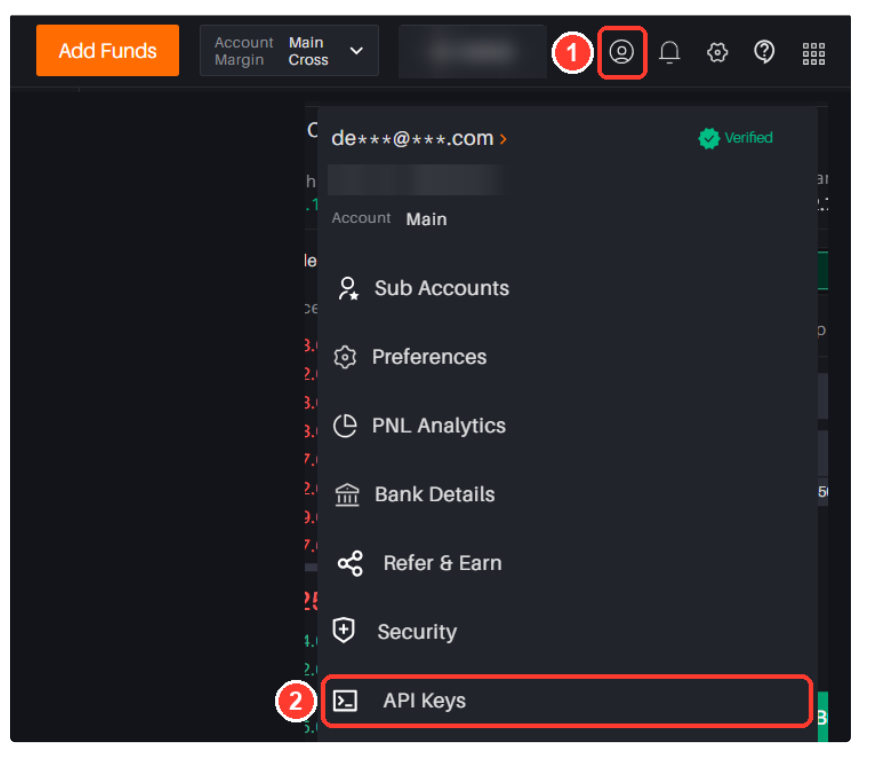
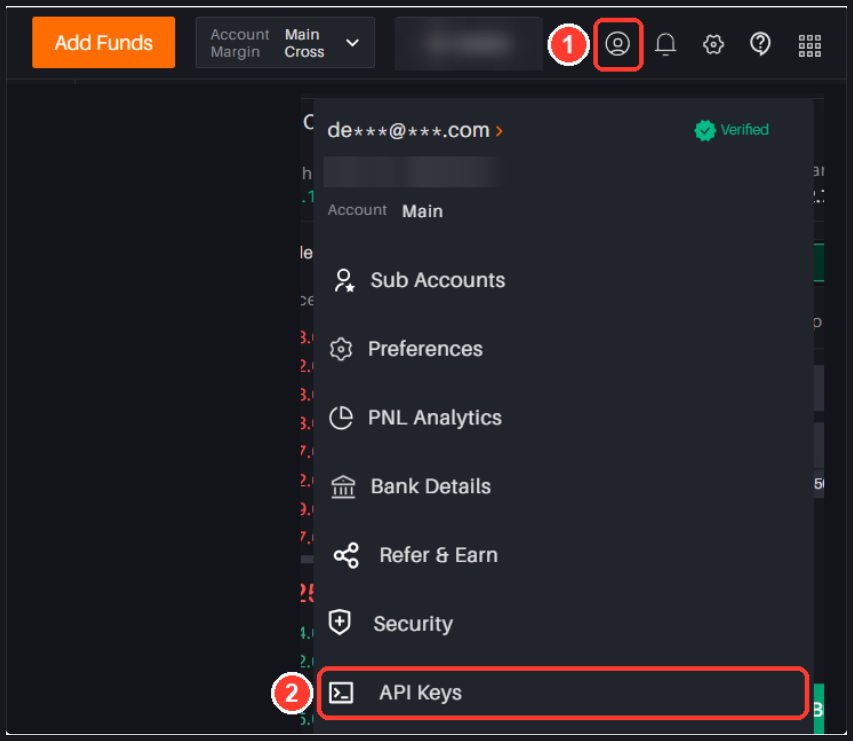
Fixed the image hw issue

diff --git a/src/manualExport.js b/src/manualExport.js
@@ -66,7 +66,10 @@ function guideXml(g, images) {
   return parts.join('');
 }
 
-const MAX_IMG_EMU = 5760720; // 6.3 in — the A4 text width at these margins
+// Screenshot box — the SAME on screen (index.css .mn-shot img), in the DOCX and in the PDF:
+// at most 420 × 260 CSS px, aspect kept, never cropped.
+export const SHOT_MAX_W = 420;
+export const SHOT_MAX_H = 260;
 const EMU_PER_PX = 9525;     // at 96 dpi
 
 /**
@@ -98,7 +101,7 @@ export function buildGuidesDocx(guides, loaded = new Map()) {
   let n = 0;
   for (const [src, im] of loaded) {
     n++;
-    const scale = Math.min(1, MAX_IMG_EMU / (im.w * EMU_PER_PX));
+    const scale = Math.min(1, SHOT_MAX_W / im.w, SHOT_MAX_H / im.h);
     images.set(src, {
       ...im, id: n, rid: `rIdImg${n}`, name: `image${n}.${im.ext === 'png' ? 'png' : 'jpg'}`,
       cx: Math.round(im.w * EMU_PER_PX * scale), cy: Math.round(im.h * EMU_PER_PX * scale),
@@ -162,7 +165,7 @@ export function printGuidesPdf(guides, title) {
   .note { color: #555; font-style: italic; border-left: 3px solid #bbb; padding-left: 10px; }
   code { font-family: Consolas, monospace; background: #eee; padding: 0 4px; border-radius: 3px; font-size: 9.5pt; word-break: break-all; }
   figure { margin: 8px 0 12px; break-inside: avoid; }
-  figure img { display: block; max-width: 100%; max-height: 120mm; border: 1px solid #ccc; border-radius: 4px; }
+  figure img { display: block; width: auto; height: auto; max-width: min(100%, ${SHOT_MAX_W}px); max-height: ${SHOT_MAX_H}px; border: 1px solid #ccc; border-radius: 4px; }
   figcaption { color: #666; font-size: 9pt; font-style: italic; margin-top: 3px; }
   .guide + .guide { break-before: page; }
   .foot { color: #888; font-size: 9pt; margin-top: 24px; }

diff --git a/src/index.css b/src/index.css
@@ -7900,14 +7900,15 @@ details.dr-note p {
 @media (max-width: 1100px) {
   .nav-group-current { display: none; }
 }
-.mn-shots { display: flex; flex-direction: column; gap: 16px; margin: 10px 0 12px; }
+.mn-shots { display: flex; flex-direction: column; gap: 12px; margin: 8px 0 10px; }
 /* One screenshot per row at its own aspect ratio, caption beside it (below on narrow screens). */
 .mn-shot { margin: 0; display: flex; align-items: flex-start; gap: 16px; }
 .mn-shot a {
-  flex: 0 1 auto; display: block; max-width: min(100%, 760px);
+  flex: 0 1 auto; display: block; max-width: min(100%, 420px); cursor: zoom-in;
   border: 1px solid var(--border); border-radius: 8px; overflow: hidden; background: var(--bg3);
 }
-.mn-shot img { display: block; width: auto; height: auto; max-width: 100%; max-height: 440px; }
+/* Whole image always visible (no cropping) — scaled down by width AND height, aspect kept. */
+.mn-shot img { display: block; width: auto; height: auto; max-width: 100%; max-height: 260px; }
 .mn-shot figcaption {
   flex: 1 1 220px; min-width: 200px; max-width: 340px; padding-top: 2px;
   font-size: 12.5px; line-height: 1.6; color: var(--text-dim);
